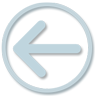
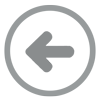
add white color to background

diff --git a/Classes/Scenes/SelectCollection.cpp b/Classes/Scenes/SelectCollection.cpp
@@ -99,15 +99,14 @@ AnimatedMenuItem* SelectCollection::createCollectionItem(
 }
 bool SelectCollection::init()
 {
-    if (!CCLayer::init() )
-    {
-        return false;
-
-    }
-//    if (!CCLayerColor::initWithColor(ccc4(231, 232, 232, 255)))
+//    if (!CCLayer::init() )
 //    {
 //        return false;
 //    }
+    if (!CCLayerColor::initWithColor(ccc4(255, 255, 255, 255)))
+    {
+        return false;
+    }
     const CCPoint ORIGIN = Screen::getOrigin();
     const CCSize VISIBLE_SIZE = Screen::getVisibleSize();
     const float SCALE = Screen::getScaleFactor();

diff --git a/Classes/Scenes/MainScene.cpp b/Classes/Scenes/MainScene.cpp
@@ -45,15 +45,14 @@ MainScene* MainScene::create()
 }
 bool MainScene::init()
 {
-    if (!CCLayer::init() )
-    {
-        return false;
-
-    }
-//    if (!CCLayerColor::initWithColor(ccc4(231, 232, 232, 255)))
+//    if (!CCLayer::init() )
 //    {
 //        return false;
 //    }
+    if (!CCLayerColor::initWithColor(ccc4(255, 255, 255, 255)))
+    {
+        return false;
+    }
 
     this->setKeypadEnabled(true);
 

diff --git a/Classes/Scenes/SelectLevel.cpp b/Classes/Scenes/SelectLevel.cpp
@@ -121,7 +121,11 @@ AnimatedMenuItem* SelectLevel::createLevelItem(const JoinyLevel* level, const Sp
 
 bool SelectLevel::init()
 {
-    if ( !CCLayer::init() )
+//    if ( !CCLayer::init() )
+//    {
+//        return false;
+//    }
+    if (!CCLayerColor::initWithColor(ccc4(255, 255, 255, 255)))
     {
         return false;
     }

diff --git a/Classes/Scenes/SettingScene.cpp b/Classes/Scenes/SettingScene.cpp
@@ -34,10 +34,13 @@ SettingScene* SettingScene::create()
 
 bool SettingScene::init()
 {
-    if (!CCLayer::init() )
+//    if (!CCLayer::init() )
+//    {
+//        return false;
+//    }
+    if (!CCLayerColor::initWithColor(ccc4(255, 255, 255, 255)))
     {
         return false;
-
     }
     return true;
 }

diff --git a/Classes/Scenes/SelectCollection.h b/Classes/Scenes/SelectCollection.h
@@ -4,7 +4,7 @@
 #include "Core/Screen.h"
 #include "Logic/JoinyCollection.h"
 #include "BackButton.h"
-class SelectCollection: public  CCLayer
+class SelectCollection: public  CCLayerColor//CCLayer
 {
 public:
     SelectCollection();

diff --git a/Classes/Scenes/SelectLevel.h b/Classes/Scenes/SelectLevel.h
@@ -7,7 +7,7 @@
 #include "Layers/PopUpWindow.h"
 #include "BackButton.h"
 
-class SelectLevel : public CCLayer//public cocos2d::CCLayer
+class SelectLevel : public CCLayerColor //CCLayer//public cocos2d::CCLayer
 {
 public:
 

diff --git a/Classes/Scenes/SettingScene.h b/Classes/Scenes/SettingScene.h
@@ -3,7 +3,7 @@
 #include "cocos2d-A.h"
 #include "Layers/PopUpWindow.h"
 
-class SettingScene: public /*CCLayerColor*/ CCLayer
+class SettingScene: public CCLayerColor //CCLayer
 {
 public:
     SettingScene();

diff --git a/Classes/Scenes/MainScene.h b/Classes/Scenes/MainScene.h
@@ -3,7 +3,7 @@
 #include "cocos2d-A.h"
 #include "Layers/PopUpWindow.h"
 
-class MainScene: public /*CCLayerColor*/ CCLayer
+class MainScene: public CCLayerColor //CCLayer
 {
 public:
     MainScene();
